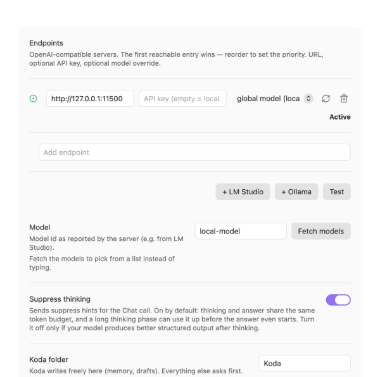
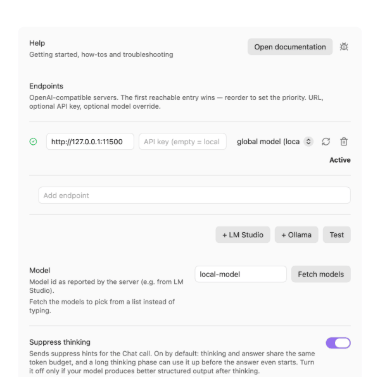
docs(images): settings.png neu aufgenommen, gui-ask-Kommentar zu effectiveModel

diff --git a/scripts/gui-ask.ts b/scripts/gui-ask.ts
@@ -290,7 +290,8 @@ async function main(): Promise<void> {
       const p = app.plugins.plugins[${JSON.stringify(PLUGIN_ID)}];
       if (!p) return { ok: false };
       // Das Modell am Endpunkt ist ein OVERRIDE, kein Pflichtfeld — greift keiner, gilt das
-      // globale settings.model (Kit: effectiveModel). Ohne den Fallback meldete der Kopf
+      // globale settings.model (frueher Kit-effectiveModel, in code-kit 0.16.0 entfernt;
+      // hier selbst nachgebildet). Ohne den Fallback meldete der Kopf
       // „(keins gesetzt)", waehrend der Lauf laengst gegen ein Modell sprach.
       const ep = p.settings?.endpoints?.[0];
       const model = (ep?.model ?? "").trim() || (p.settings?.model ?? "").trim();

diff --git a/docs/images/README.md b/docs/images/README.md
@@ -9,7 +9,7 @@ This folder holds the images that `README.md` and `README.de.md` embed. This fil
 | `hero.png` | hero | README.md, README.de.md | A note open on the left, Koda's sidebar on the right: a question, the context line, three tool steps (`search_notes`, `read_note` twice) and a streamed answer with wikilinks |
 | `confirm-write.png` | feature | README.md, README.de.md | The confirmation dialog for a write outside the Koda folder: action and path in the title, the full text, **Cancel** / **Write** |
 | `context-tab.png` | feature | README.md, README.de.md | The Context tab in mode Note: mode dropdown, usage summary, link depth, the active note plus its linked notes as chips, the Manual section with its three add buttons |
-| `settings.png` | detail | README.md, README.de.md | Settings → Koda, top: an endpoint row checked (green mark, **Active**), **+ LM Studio** / **+ Ollama** / **Test**, the model field, the first general settings |
+| `settings.png` | detail | README.md, README.de.md | Settings → Koda, top: the Help row (**Open documentation**, bug button), an endpoint row checked (green mark, **Active**), **+ LM Studio** / **+ Ollama** / **Test**, the model field, the first general settings |
 
 Captured at 1200 px, device pixel ratio 2, English interface. The sidebar images are embedded at their real on-screen width (not stretched to the class width).
 

diff --git a/CHANGELOG.md b/CHANGELOG.md
@@ -6,6 +6,10 @@ All notable changes to this project are documented here. The format follows
 
 ## [Unreleased]
 
+### Changed
+
+- The settings screenshot in the README now shows the current Settings page, including the Help row.
+
 ## [0.22.0] — 2026-10-09
 
 ### Changed
